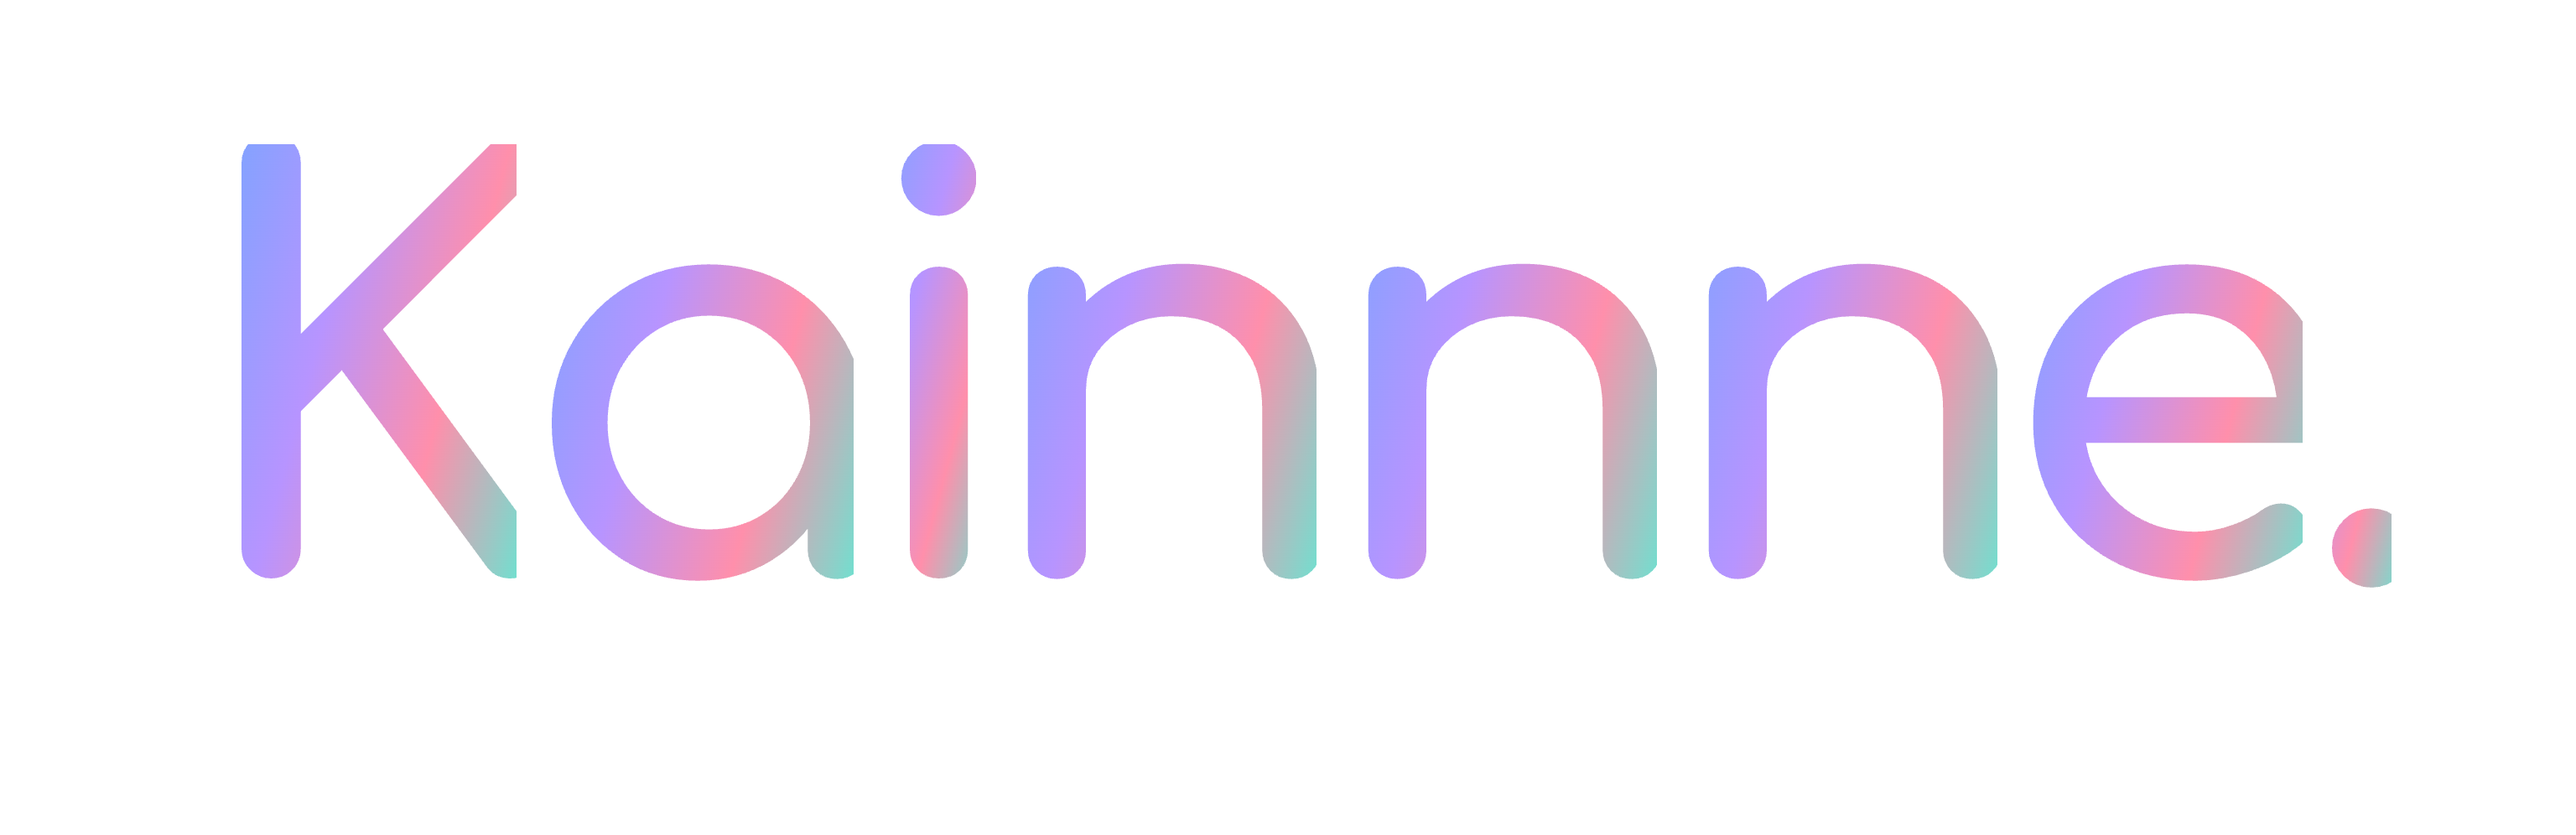
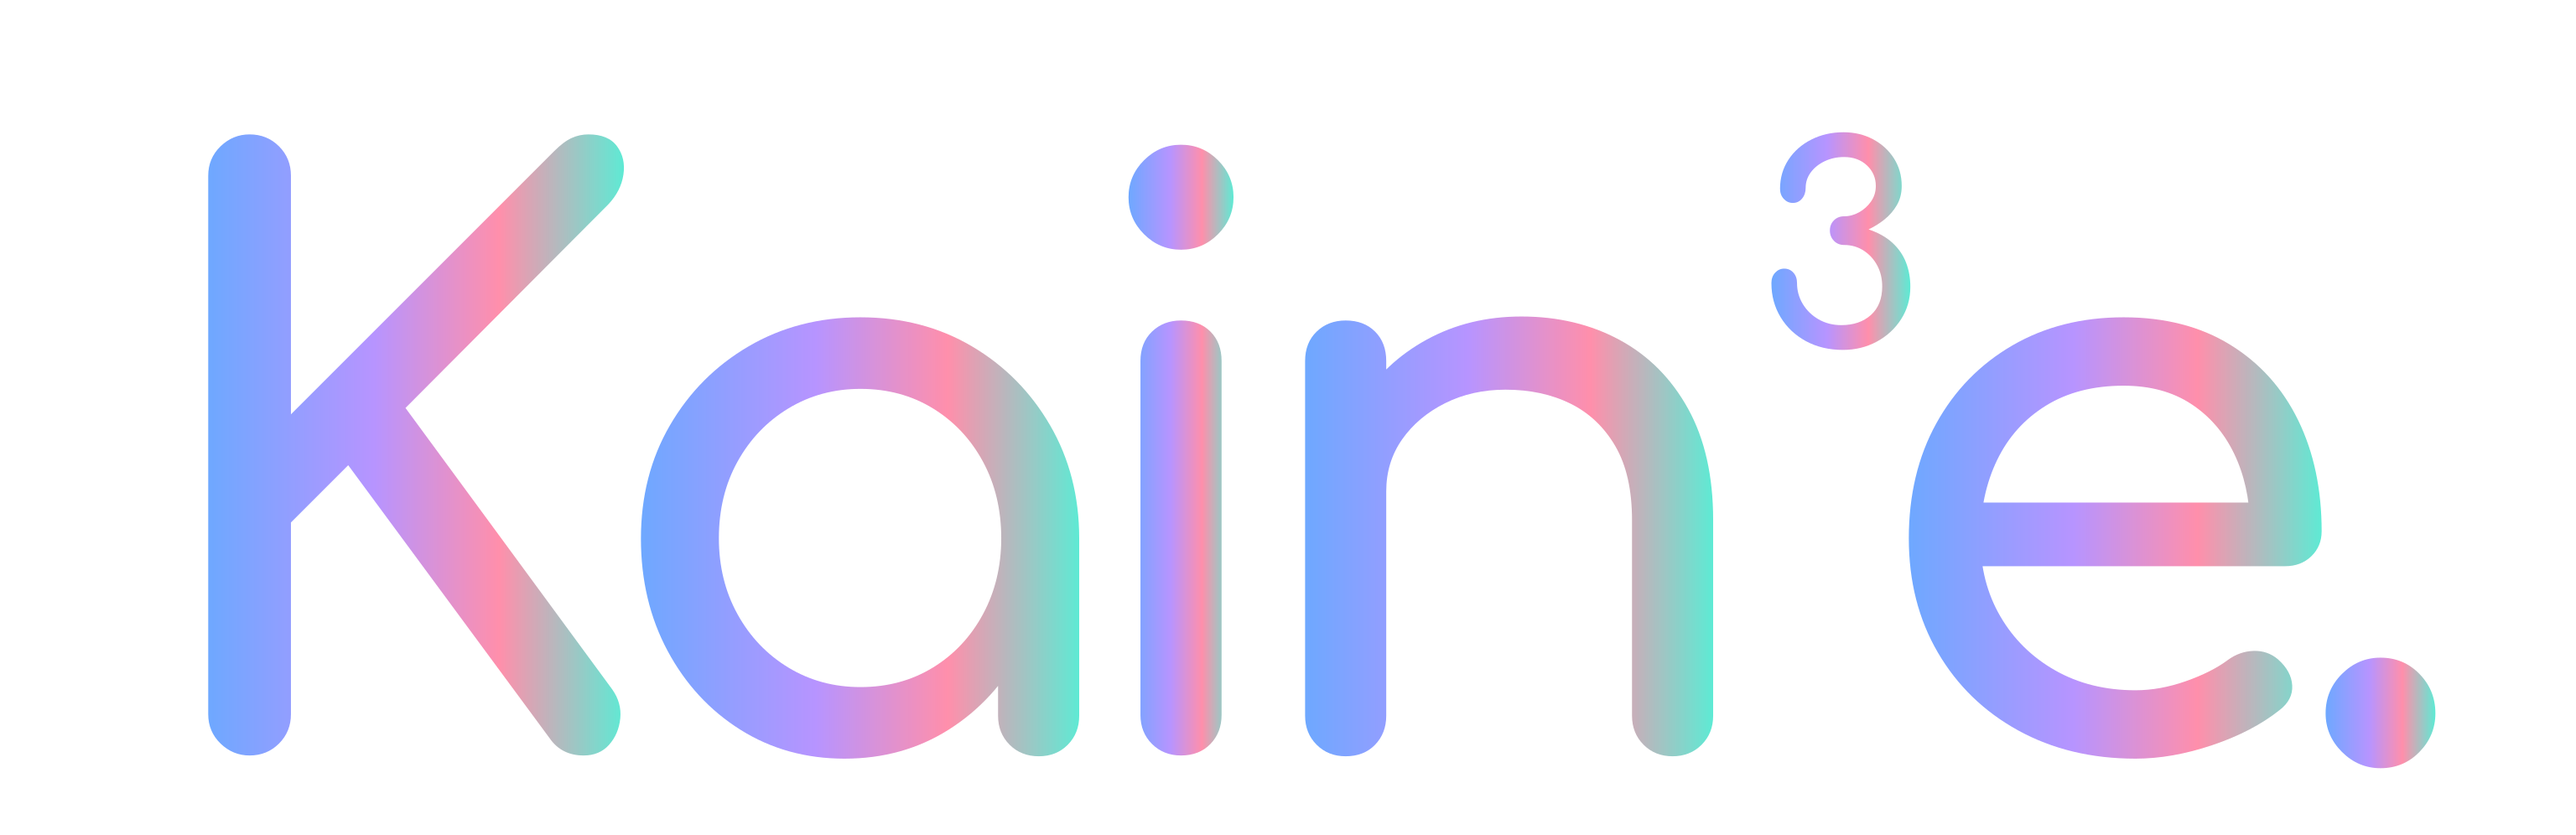
Refresh website wordmark and social preview to Kain³e

Changed region(s): [[0.0625, 0.1556, 0.9688, 0.9337], [0.3438, 0.1556, 0.4062, 0.2801]]

diff --git a/site/index.html b/site/index.html
@@ -10,20 +10,20 @@
     <link rel="apple-touch-icon" href="./apple-touch-icon.png" />
     <meta
       name="description"
-      content="Kainnne LumaReader — read and edit local Markdown project files in a clear, customizable interface. Available for macOS, Windows, Linux, and the web."
+      content="Kain³e LumaReader — read and edit local Markdown project files in a clear, customizable interface. Available for macOS, Windows, Linux, and the web."
     />
-    <meta property="og:title" content="Kainnne LumaReader" />
+    <meta property="og:title" content="Kain³e LumaReader" />
     <meta property="og:description" content="Read and edit local Markdown project files in a clear, customizable interface. Available for macOS, Windows, Linux, and the web." />
     <meta property="og:type" content="website" />
     <meta property="og:url" content="https://lumareader.kainnne.com/" />
-    <meta property="og:image" content="https://lumareader.kainnne.com/icon.png" />
-    <meta property="og:image:width" content="1254" />
-    <meta property="og:image:height" content="1254" />
-    <meta property="og:image:alt" content="LumaReader application icon" />
+    <meta property="og:image" content="https://lumareader.kainnne.com/assets/brand/kain-cubed-share.jpg" />
+    <meta property="og:image:width" content="1200" />
+    <meta property="og:image:height" content="630" />
+    <meta property="og:image:alt" content="LumaReader by Kain³e" />
     <meta name="twitter:card" content="summary" />
-    <meta name="twitter:title" content="Kainnne LumaReader" />
+    <meta name="twitter:title" content="Kain³e LumaReader" />
     <meta name="twitter:description" content="Read and edit local Markdown project files in a clear, customizable interface. Available for macOS, Windows, Linux, and the web." />
-    <meta name="twitter:image" content="https://lumareader.kainnne.com/icon.png" />
+    <meta name="twitter:image" content="https://lumareader.kainnne.com/assets/brand/kain-cubed-share.jpg" />
     <link rel="preconnect" href="https://fonts.googleapis.com" />
     <link rel="preconnect" href="https://fonts.gstatic.com" crossorigin />
     <link
@@ -32,13 +32,13 @@
     />
     <link rel="stylesheet" href="./styles.css" />
     <script src="./app.js?v=1.4.2" defer></script>
-    <title>Kainnne LumaReader</title>
+    <title>Kain³e LumaReader</title>
   </head>
   <body>
     <main>
       <header class="site-header">
         <a class="product-home" href="#top" aria-label="LumaReader home">
-          <img class="product-home-logo" src="./assets/kainnne-wordmark.png" alt="Kainnne" width="154" height="50" decoding="async" />
+          <img class="product-home-logo" src="./assets/brand/kain-cubed-wordmark.svg" alt="Kain³e" width="144" height="50" decoding="async" />
         </a>
         <button class="language-toggle" type="button" aria-pressed="false" aria-label="Show the Traditional Chinese edition">
           <span class="language-option is-active" data-language-option="en">EN</span>
@@ -263,7 +263,7 @@
         <span data-copy="footer-copy">LumaReader is free and open source.</span>
         <a href="embed/"><span data-copy="footer-embed">Free website embed</span><span aria-hidden="true">↗</span></a>
         <a href="mailto:ryanzhu@kainnne.com"><span data-copy="footer-contact">Contact the author</span><span aria-hidden="true">↗</span></a>
-        <a href="https://kainnne.com"><span data-copy="footer-link">More from Kainnne</span><span aria-hidden="true">↗</span></a>
+        <a href="https://kainnne.com"><span data-copy="footer-link">More from Kain³e</span><span aria-hidden="true">↗</span></a>
       </footer>
     </main>
 

diff --git a/site/app.js b/site/app.js
@@ -79,7 +79,7 @@ const editions = {
     "footer-copy": "LumaReader is free and open source.",
     "footer-embed": "Free website embed",
     "footer-contact": "Contact the author",
-    "footer-link": "More from Kainnne",
+    "footer-link": "More from Kain³e",
     "linux-action": "DOWNLOAD FOR",
     "linux-trust": "AppImage · Make executable to run",
     "linux-spec": "AppImage · Tested on Ubuntu 22.04 x64",
@@ -165,7 +165,7 @@ const editions = {
     "footer-copy": "LumaReader 免費使用，原始碼也公開。",
     "footer-embed": "免費嵌入網站",
     "footer-contact": "聯絡作者",
-    "footer-link": "更多 Kainnne 作品",
+    "footer-link": "更多 Kain³e 作品",
     "linux-action": "下載",
     "linux-trust": "AppImage · 先允許執行，再開啟",
     "linux-spec": "AppImage · 已在 Ubuntu 22.04 x64 測試",
